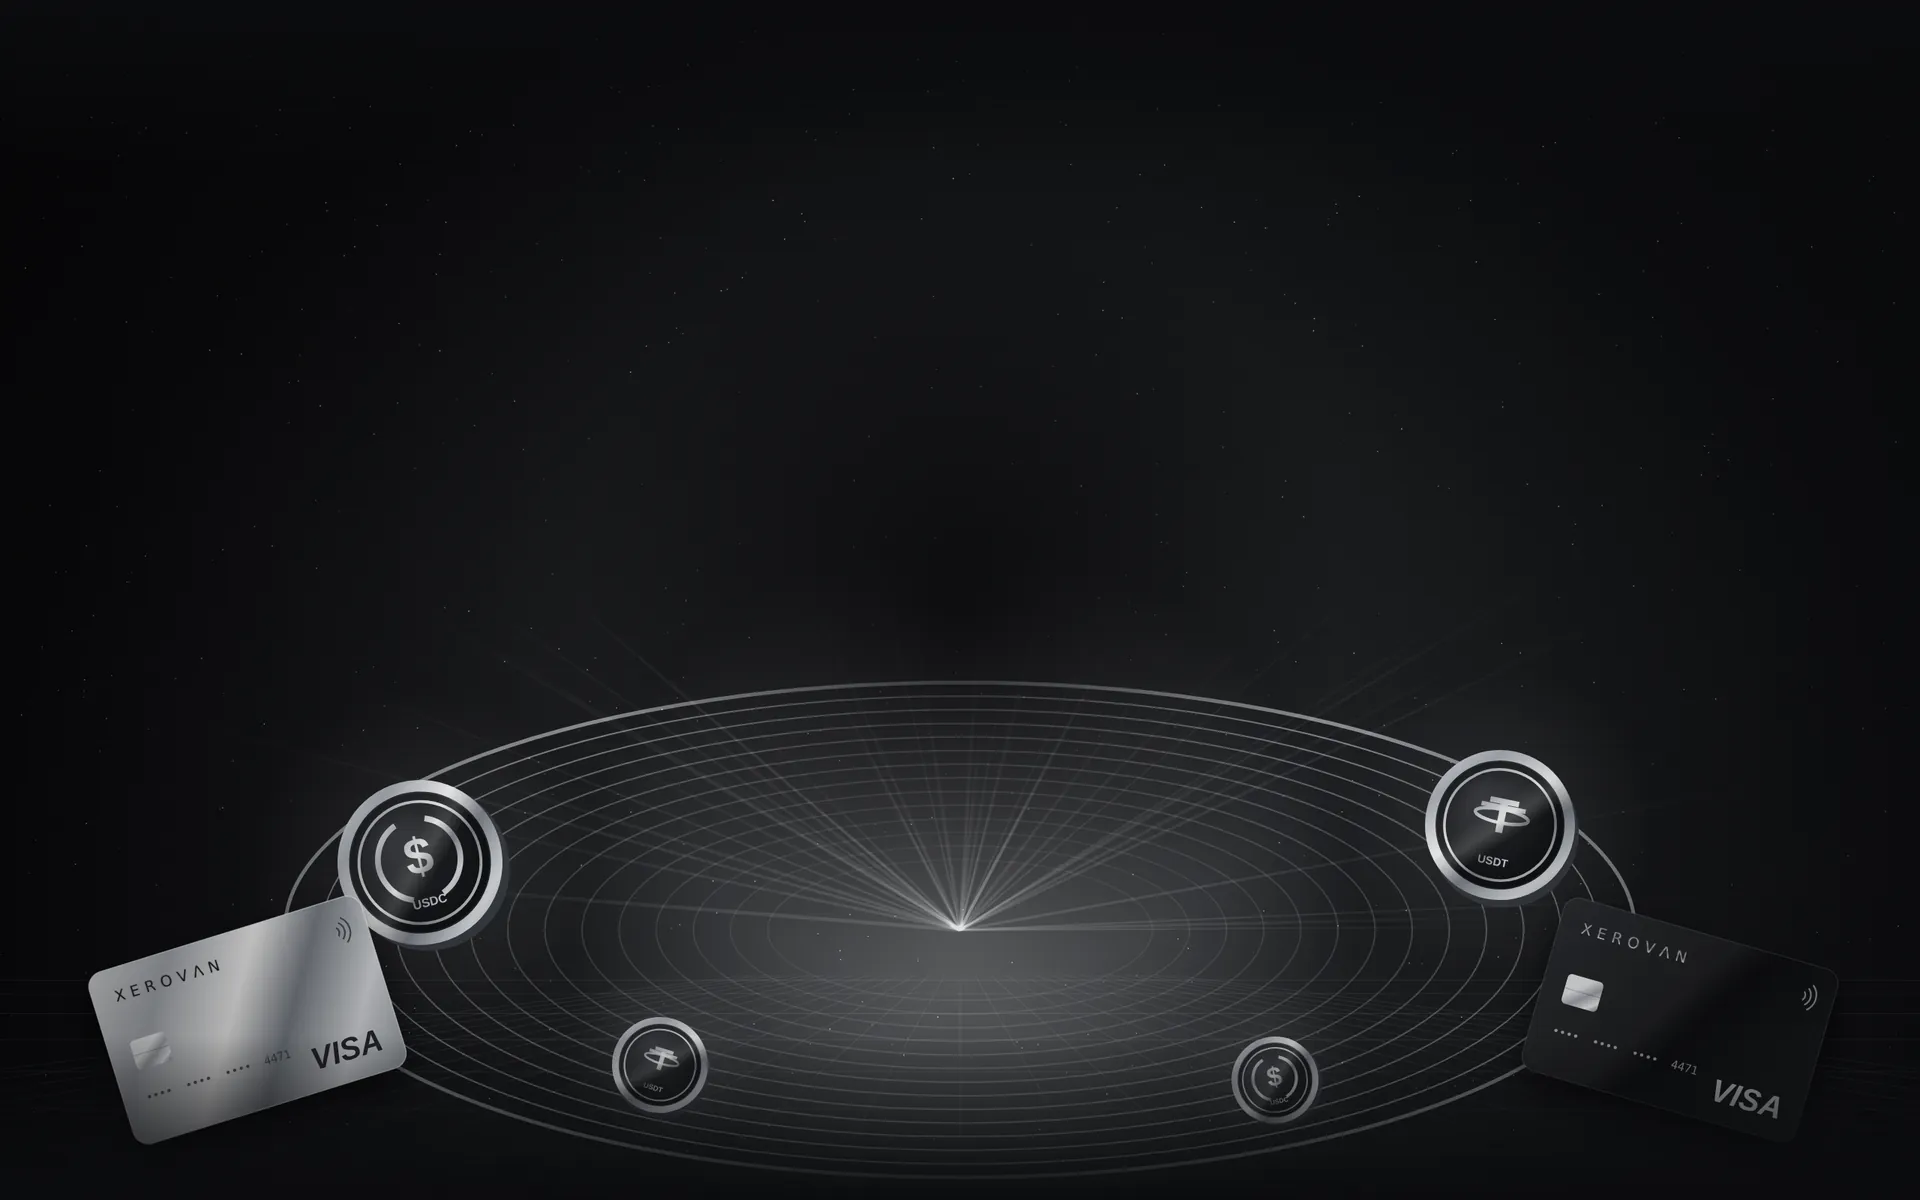
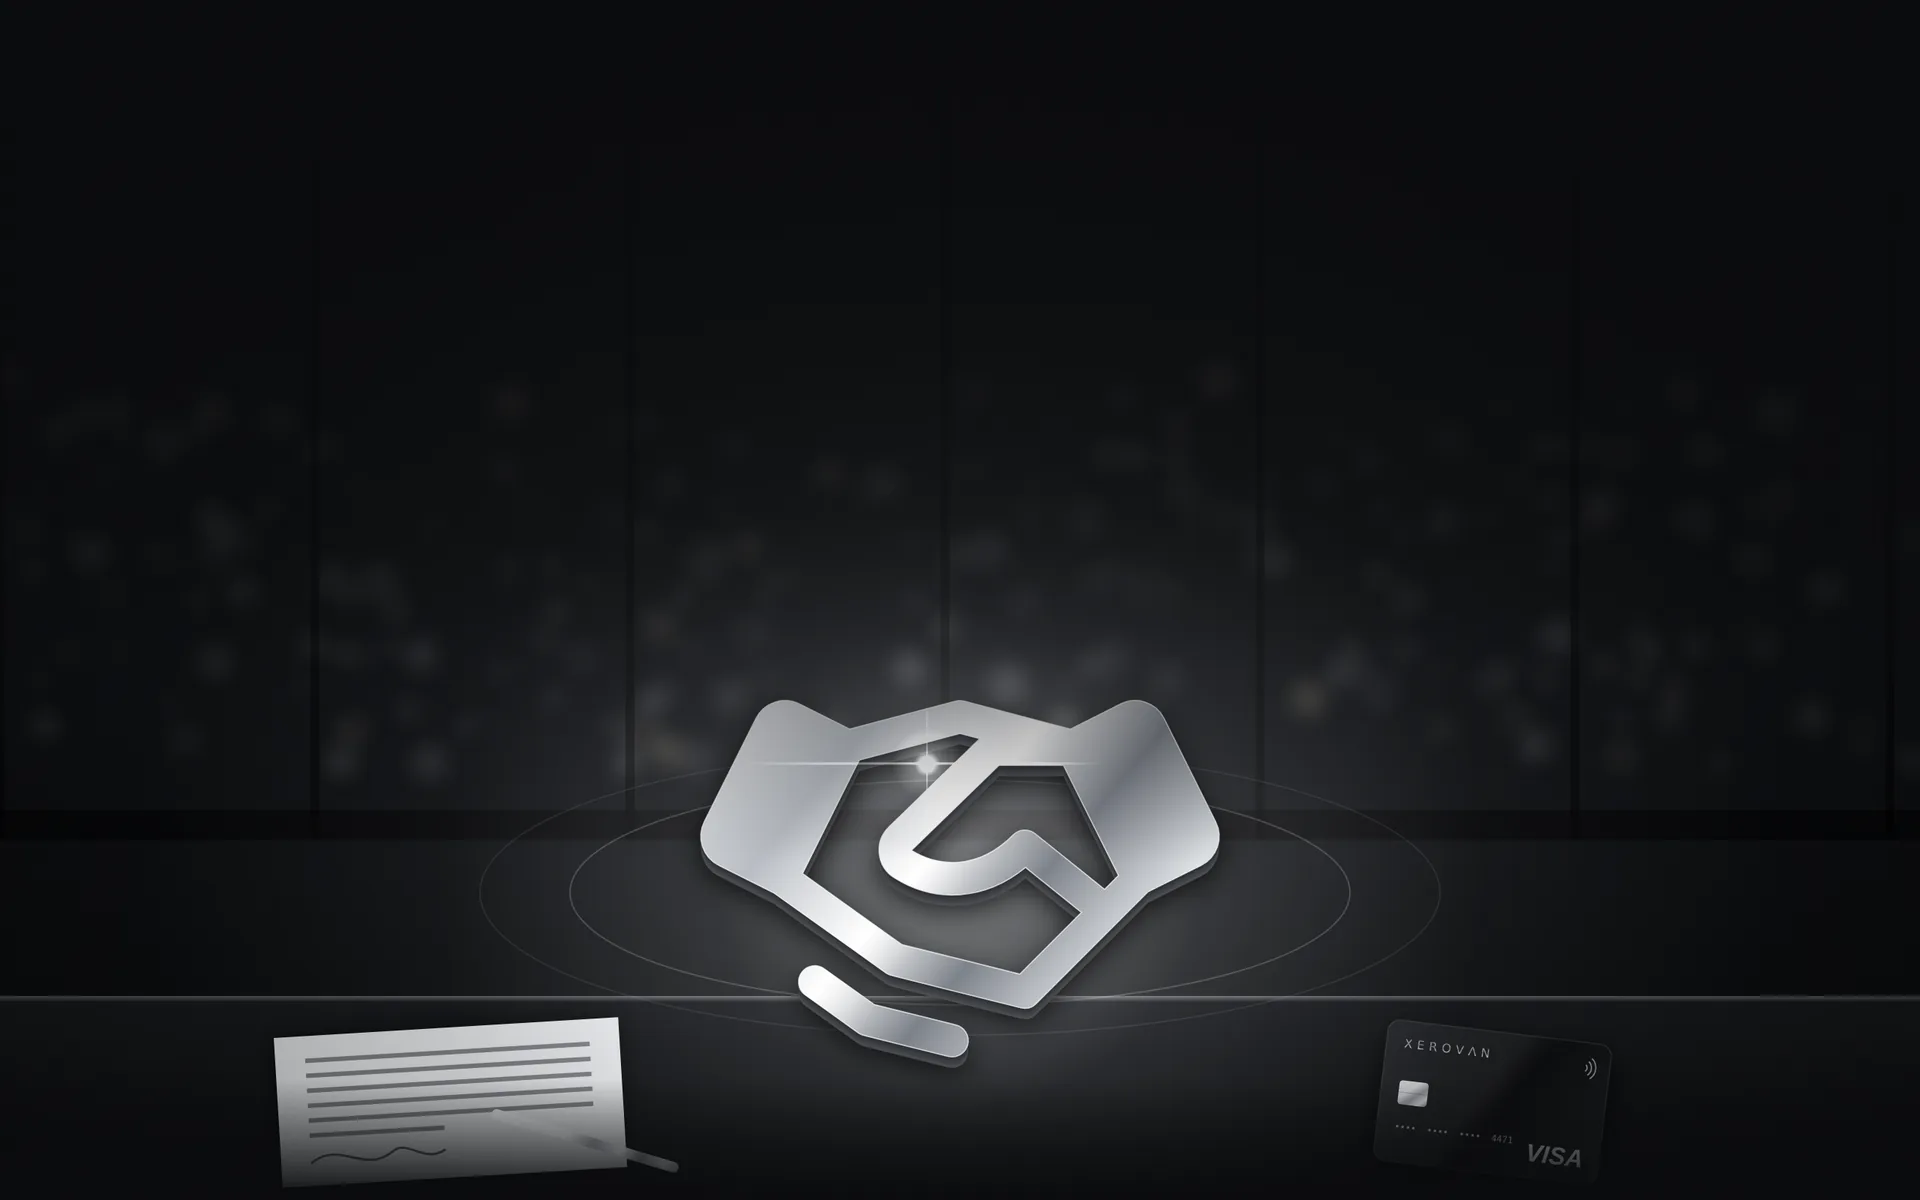
Softer fintech backgrounds for Use Cases/FAQ; handshake deal scene for waitlist
Claude-Session: https://claude.ai/code/session_01CZPnW5eg3WdifBhzuszZDx

diff --git a/ar/index.html b/ar/index.html
@@ -328,10 +328,10 @@
   .hero{background-image:url("/images/bg-hero.webp");background-position:center;}
   #usecases{background-image:url("/images/bg-usecases.webp");background-position:center;}
   #usecases .uc-item{background:rgba(16,17,20,.72);backdrop-filter:blur(14px);-webkit-backdrop-filter:blur(14px);border-color:rgba(255,255,255,.1);}
-  @media(max-width:1000px){ #faq{background-image:linear-gradient(rgba(11,12,14,.75),rgba(11,12,14,.75)),url("/images/bg-faq.webp");} }
   #faq{background-image:url("/images/bg-faq.webp");background-position:center;}
-  #waitlist{background-image:url("/images/bg-cta.webp");background-position:center bottom;}
-  @media(max-width:760px){ .hero{background-position:84% 30%;} .hero::after{background:radial-gradient(ellipse 70% 40% at 50% 52%,rgba(8,8,10,.82),rgba(8,8,10,.4) 70%,transparent 90%) !important;} #usecases{background-position:18% center;} }
+  #waitlist{background-image:url("/images/bg-cta.webp");background-position:center bottom;padding-bottom:430px;}
+  @media(max-width:760px){ #waitlist{padding-bottom:340px;background-size:auto 100%;} }
+  @media(max-width:760px){ .hero{background-position:84% 30%;} .hero::after{background:radial-gradient(ellipse 70% 40% at 50% 52%,rgba(8,8,10,.82),rgba(8,8,10,.4) 70%,transparent 90%) !important;} #usecases{background-position:center;} }
   .divider{background:rgba(19,20,23,0.7) !important;}
   /* calm pool behind the hero copy */
   .hero::after{content:'';position:absolute;inset:0;pointer-events:none;z-index:0;background:radial-gradient(ellipse 40% 44% at 50% 54%,rgba(8,8,10,.7),rgba(8,8,10,.3) 60%,transparent 80%);}

diff --git a/en/index.html b/en/index.html
@@ -328,10 +328,10 @@
   .hero{background-image:url("/images/bg-hero.webp");background-position:center;}
   #usecases{background-image:url("/images/bg-usecases.webp");background-position:center;}
   #usecases .uc-item{background:rgba(16,17,20,.72);backdrop-filter:blur(14px);-webkit-backdrop-filter:blur(14px);border-color:rgba(255,255,255,.1);}
-  @media(max-width:1000px){ #faq{background-image:linear-gradient(rgba(11,12,14,.75),rgba(11,12,14,.75)),url("/images/bg-faq.webp");} }
   #faq{background-image:url("/images/bg-faq.webp");background-position:center;}
-  #waitlist{background-image:url("/images/bg-cta.webp");background-position:center bottom;}
-  @media(max-width:760px){ .hero{background-position:84% 30%;} .hero::after{background:radial-gradient(ellipse 70% 40% at 50% 52%,rgba(8,8,10,.82),rgba(8,8,10,.4) 70%,transparent 90%) !important;} #usecases{background-position:18% center;} }
+  #waitlist{background-image:url("/images/bg-cta.webp");background-position:center bottom;padding-bottom:430px;}
+  @media(max-width:760px){ #waitlist{padding-bottom:340px;background-size:auto 100%;} }
+  @media(max-width:760px){ .hero{background-position:84% 30%;} .hero::after{background:radial-gradient(ellipse 70% 40% at 50% 52%,rgba(8,8,10,.82),rgba(8,8,10,.4) 70%,transparent 90%) !important;} #usecases{background-position:center;} }
   .divider{background:rgba(19,20,23,0.7) !important;}
   /* calm pool behind the hero copy */
   .hero::after{content:'';position:absolute;inset:0;pointer-events:none;z-index:0;background:radial-gradient(ellipse 40% 44% at 50% 54%,rgba(8,8,10,.7),rgba(8,8,10,.3) 60%,transparent 80%);}

diff --git a/es/index.html b/es/index.html
@@ -328,10 +328,10 @@
   .hero{background-image:url("/images/bg-hero.webp");background-position:center;}
   #usecases{background-image:url("/images/bg-usecases.webp");background-position:center;}
   #usecases .uc-item{background:rgba(16,17,20,.72);backdrop-filter:blur(14px);-webkit-backdrop-filter:blur(14px);border-color:rgba(255,255,255,.1);}
-  @media(max-width:1000px){ #faq{background-image:linear-gradient(rgba(11,12,14,.75),rgba(11,12,14,.75)),url("/images/bg-faq.webp");} }
   #faq{background-image:url("/images/bg-faq.webp");background-position:center;}
-  #waitlist{background-image:url("/images/bg-cta.webp");background-position:center bottom;}
-  @media(max-width:760px){ .hero{background-position:84% 30%;} .hero::after{background:radial-gradient(ellipse 70% 40% at 50% 52%,rgba(8,8,10,.82),rgba(8,8,10,.4) 70%,transparent 90%) !important;} #usecases{background-position:18% center;} }
+  #waitlist{background-image:url("/images/bg-cta.webp");background-position:center bottom;padding-bottom:430px;}
+  @media(max-width:760px){ #waitlist{padding-bottom:340px;background-size:auto 100%;} }
+  @media(max-width:760px){ .hero{background-position:84% 30%;} .hero::after{background:radial-gradient(ellipse 70% 40% at 50% 52%,rgba(8,8,10,.82),rgba(8,8,10,.4) 70%,transparent 90%) !important;} #usecases{background-position:center;} }
   .divider{background:rgba(19,20,23,0.7) !important;}
   /* calm pool behind the hero copy */
   .hero::after{content:'';position:absolute;inset:0;pointer-events:none;z-index:0;background:radial-gradient(ellipse 40% 44% at 50% 54%,rgba(8,8,10,.7),rgba(8,8,10,.3) 60%,transparent 80%);}

diff --git a/ja/index.html b/ja/index.html
@@ -329,10 +329,10 @@
   .hero{background-image:url("/images/bg-hero.webp");background-position:center;}
   #usecases{background-image:url("/images/bg-usecases.webp");background-position:center;}
   #usecases .uc-item{background:rgba(16,17,20,.72);backdrop-filter:blur(14px);-webkit-backdrop-filter:blur(14px);border-color:rgba(255,255,255,.1);}
-  @media(max-width:1000px){ #faq{background-image:linear-gradient(rgba(11,12,14,.75),rgba(11,12,14,.75)),url("/images/bg-faq.webp");} }
   #faq{background-image:url("/images/bg-faq.webp");background-position:center;}
-  #waitlist{background-image:url("/images/bg-cta.webp");background-position:center bottom;}
-  @media(max-width:760px){ .hero{background-position:84% 30%;} .hero::after{background:radial-gradient(ellipse 70% 40% at 50% 52%,rgba(8,8,10,.82),rgba(8,8,10,.4) 70%,transparent 90%) !important;} #usecases{background-position:18% center;} }
+  #waitlist{background-image:url("/images/bg-cta.webp");background-position:center bottom;padding-bottom:430px;}
+  @media(max-width:760px){ #waitlist{padding-bottom:340px;background-size:auto 100%;} }
+  @media(max-width:760px){ .hero{background-position:84% 30%;} .hero::after{background:radial-gradient(ellipse 70% 40% at 50% 52%,rgba(8,8,10,.82),rgba(8,8,10,.4) 70%,transparent 90%) !important;} #usecases{background-position:center;} }
   .divider{background:rgba(19,20,23,0.7) !important;}
   /* calm pool behind the hero copy */
   .hero::after{content:'';position:absolute;inset:0;pointer-events:none;z-index:0;background:radial-gradient(ellipse 40% 44% at 50% 54%,rgba(8,8,10,.7),rgba(8,8,10,.3) 60%,transparent 80%);}

diff --git a/kr/index.html b/kr/index.html
@@ -329,10 +329,10 @@
   .hero{background-image:url("/images/bg-hero.webp");background-position:center;}
   #usecases{background-image:url("/images/bg-usecases.webp");background-position:center;}
   #usecases .uc-item{background:rgba(16,17,20,.72);backdrop-filter:blur(14px);-webkit-backdrop-filter:blur(14px);border-color:rgba(255,255,255,.1);}
-  @media(max-width:1000px){ #faq{background-image:linear-gradient(rgba(11,12,14,.75),rgba(11,12,14,.75)),url("/images/bg-faq.webp");} }
   #faq{background-image:url("/images/bg-faq.webp");background-position:center;}
-  #waitlist{background-image:url("/images/bg-cta.webp");background-position:center bottom;}
-  @media(max-width:760px){ .hero{background-position:84% 30%;} .hero::after{background:radial-gradient(ellipse 70% 40% at 50% 52%,rgba(8,8,10,.82),rgba(8,8,10,.4) 70%,transparent 90%) !important;} #usecases{background-position:18% center;} }
+  #waitlist{background-image:url("/images/bg-cta.webp");background-position:center bottom;padding-bottom:430px;}
+  @media(max-width:760px){ #waitlist{padding-bottom:340px;background-size:auto 100%;} }
+  @media(max-width:760px){ .hero{background-position:84% 30%;} .hero::after{background:radial-gradient(ellipse 70% 40% at 50% 52%,rgba(8,8,10,.82),rgba(8,8,10,.4) 70%,transparent 90%) !important;} #usecases{background-position:center;} }
   .divider{background:rgba(19,20,23,0.7) !important;}
   /* calm pool behind the hero copy */
   .hero::after{content:'';position:absolute;inset:0;pointer-events:none;z-index:0;background:radial-gradient(ellipse 40% 44% at 50% 54%,rgba(8,8,10,.7),rgba(8,8,10,.3) 60%,transparent 80%);}

diff --git a/pt/index.html b/pt/index.html
@@ -328,10 +328,10 @@
   .hero{background-image:url("/images/bg-hero.webp");background-position:center;}
   #usecases{background-image:url("/images/bg-usecases.webp");background-position:center;}
   #usecases .uc-item{background:rgba(16,17,20,.72);backdrop-filter:blur(14px);-webkit-backdrop-filter:blur(14px);border-color:rgba(255,255,255,.1);}
-  @media(max-width:1000px){ #faq{background-image:linear-gradient(rgba(11,12,14,.75),rgba(11,12,14,.75)),url("/images/bg-faq.webp");} }
   #faq{background-image:url("/images/bg-faq.webp");background-position:center;}
-  #waitlist{background-image:url("/images/bg-cta.webp");background-position:center bottom;}
-  @media(max-width:760px){ .hero{background-position:84% 30%;} .hero::after{background:radial-gradient(ellipse 70% 40% at 50% 52%,rgba(8,8,10,.82),rgba(8,8,10,.4) 70%,transparent 90%) !important;} #usecases{background-position:18% center;} }
+  #waitlist{background-image:url("/images/bg-cta.webp");background-position:center bottom;padding-bottom:430px;}
+  @media(max-width:760px){ #waitlist{padding-bottom:340px;background-size:auto 100%;} }
+  @media(max-width:760px){ .hero{background-position:84% 30%;} .hero::after{background:radial-gradient(ellipse 70% 40% at 50% 52%,rgba(8,8,10,.82),rgba(8,8,10,.4) 70%,transparent 90%) !important;} #usecases{background-position:center;} }
   .divider{background:rgba(19,20,23,0.7) !important;}
   /* calm pool behind the hero copy */
   .hero::after{content:'';position:absolute;inset:0;pointer-events:none;z-index:0;background:radial-gradient(ellipse 40% 44% at 50% 54%,rgba(8,8,10,.7),rgba(8,8,10,.3) 60%,transparent 80%);}

diff --git a/_build/summary.py b/_build/summary.py
@@ -124,10 +124,10 @@ SITE_BG_CSS = """  /* Page backgrounds scroll with the content: one image per se
   .hero{background-image:url("/images/bg-hero.webp");background-position:center;}
   #usecases{background-image:url("/images/bg-usecases.webp");background-position:center;}
   #usecases .uc-item{background:rgba(16,17,20,.72);backdrop-filter:blur(14px);-webkit-backdrop-filter:blur(14px);border-color:rgba(255,255,255,.1);}
-  @media(max-width:1000px){ #faq{background-image:linear-gradient(rgba(11,12,14,.75),rgba(11,12,14,.75)),url("/images/bg-faq.webp");} }
   #faq{background-image:url("/images/bg-faq.webp");background-position:center;}
-  #waitlist{background-image:url("/images/bg-cta.webp");background-position:center bottom;}
-  @media(max-width:760px){ .hero{background-position:84% 30%;} .hero::after{background:radial-gradient(ellipse 70% 40% at 50% 52%,rgba(8,8,10,.82),rgba(8,8,10,.4) 70%,transparent 90%) !important;} #usecases{background-position:18% center;} }
+  #waitlist{background-image:url("/images/bg-cta.webp");background-position:center bottom;padding-bottom:430px;}
+  @media(max-width:760px){ #waitlist{padding-bottom:340px;background-size:auto 100%;} }
+  @media(max-width:760px){ .hero{background-position:84% 30%;} .hero::after{background:radial-gradient(ellipse 70% 40% at 50% 52%,rgba(8,8,10,.82),rgba(8,8,10,.4) 70%,transparent 90%) !important;} #usecases{background-position:center;} }
   .divider{background:rgba(19,20,23,0.7) !important;}
   /* calm pool behind the hero copy */
   .hero::after{content:'';position:absolute;inset:0;pointer-events:none;z-index:0;background:radial-gradient(ellipse 40% 44% at 50% 54%,rgba(8,8,10,.7),rgba(8,8,10,.3) 60%,transparent 80%);}
